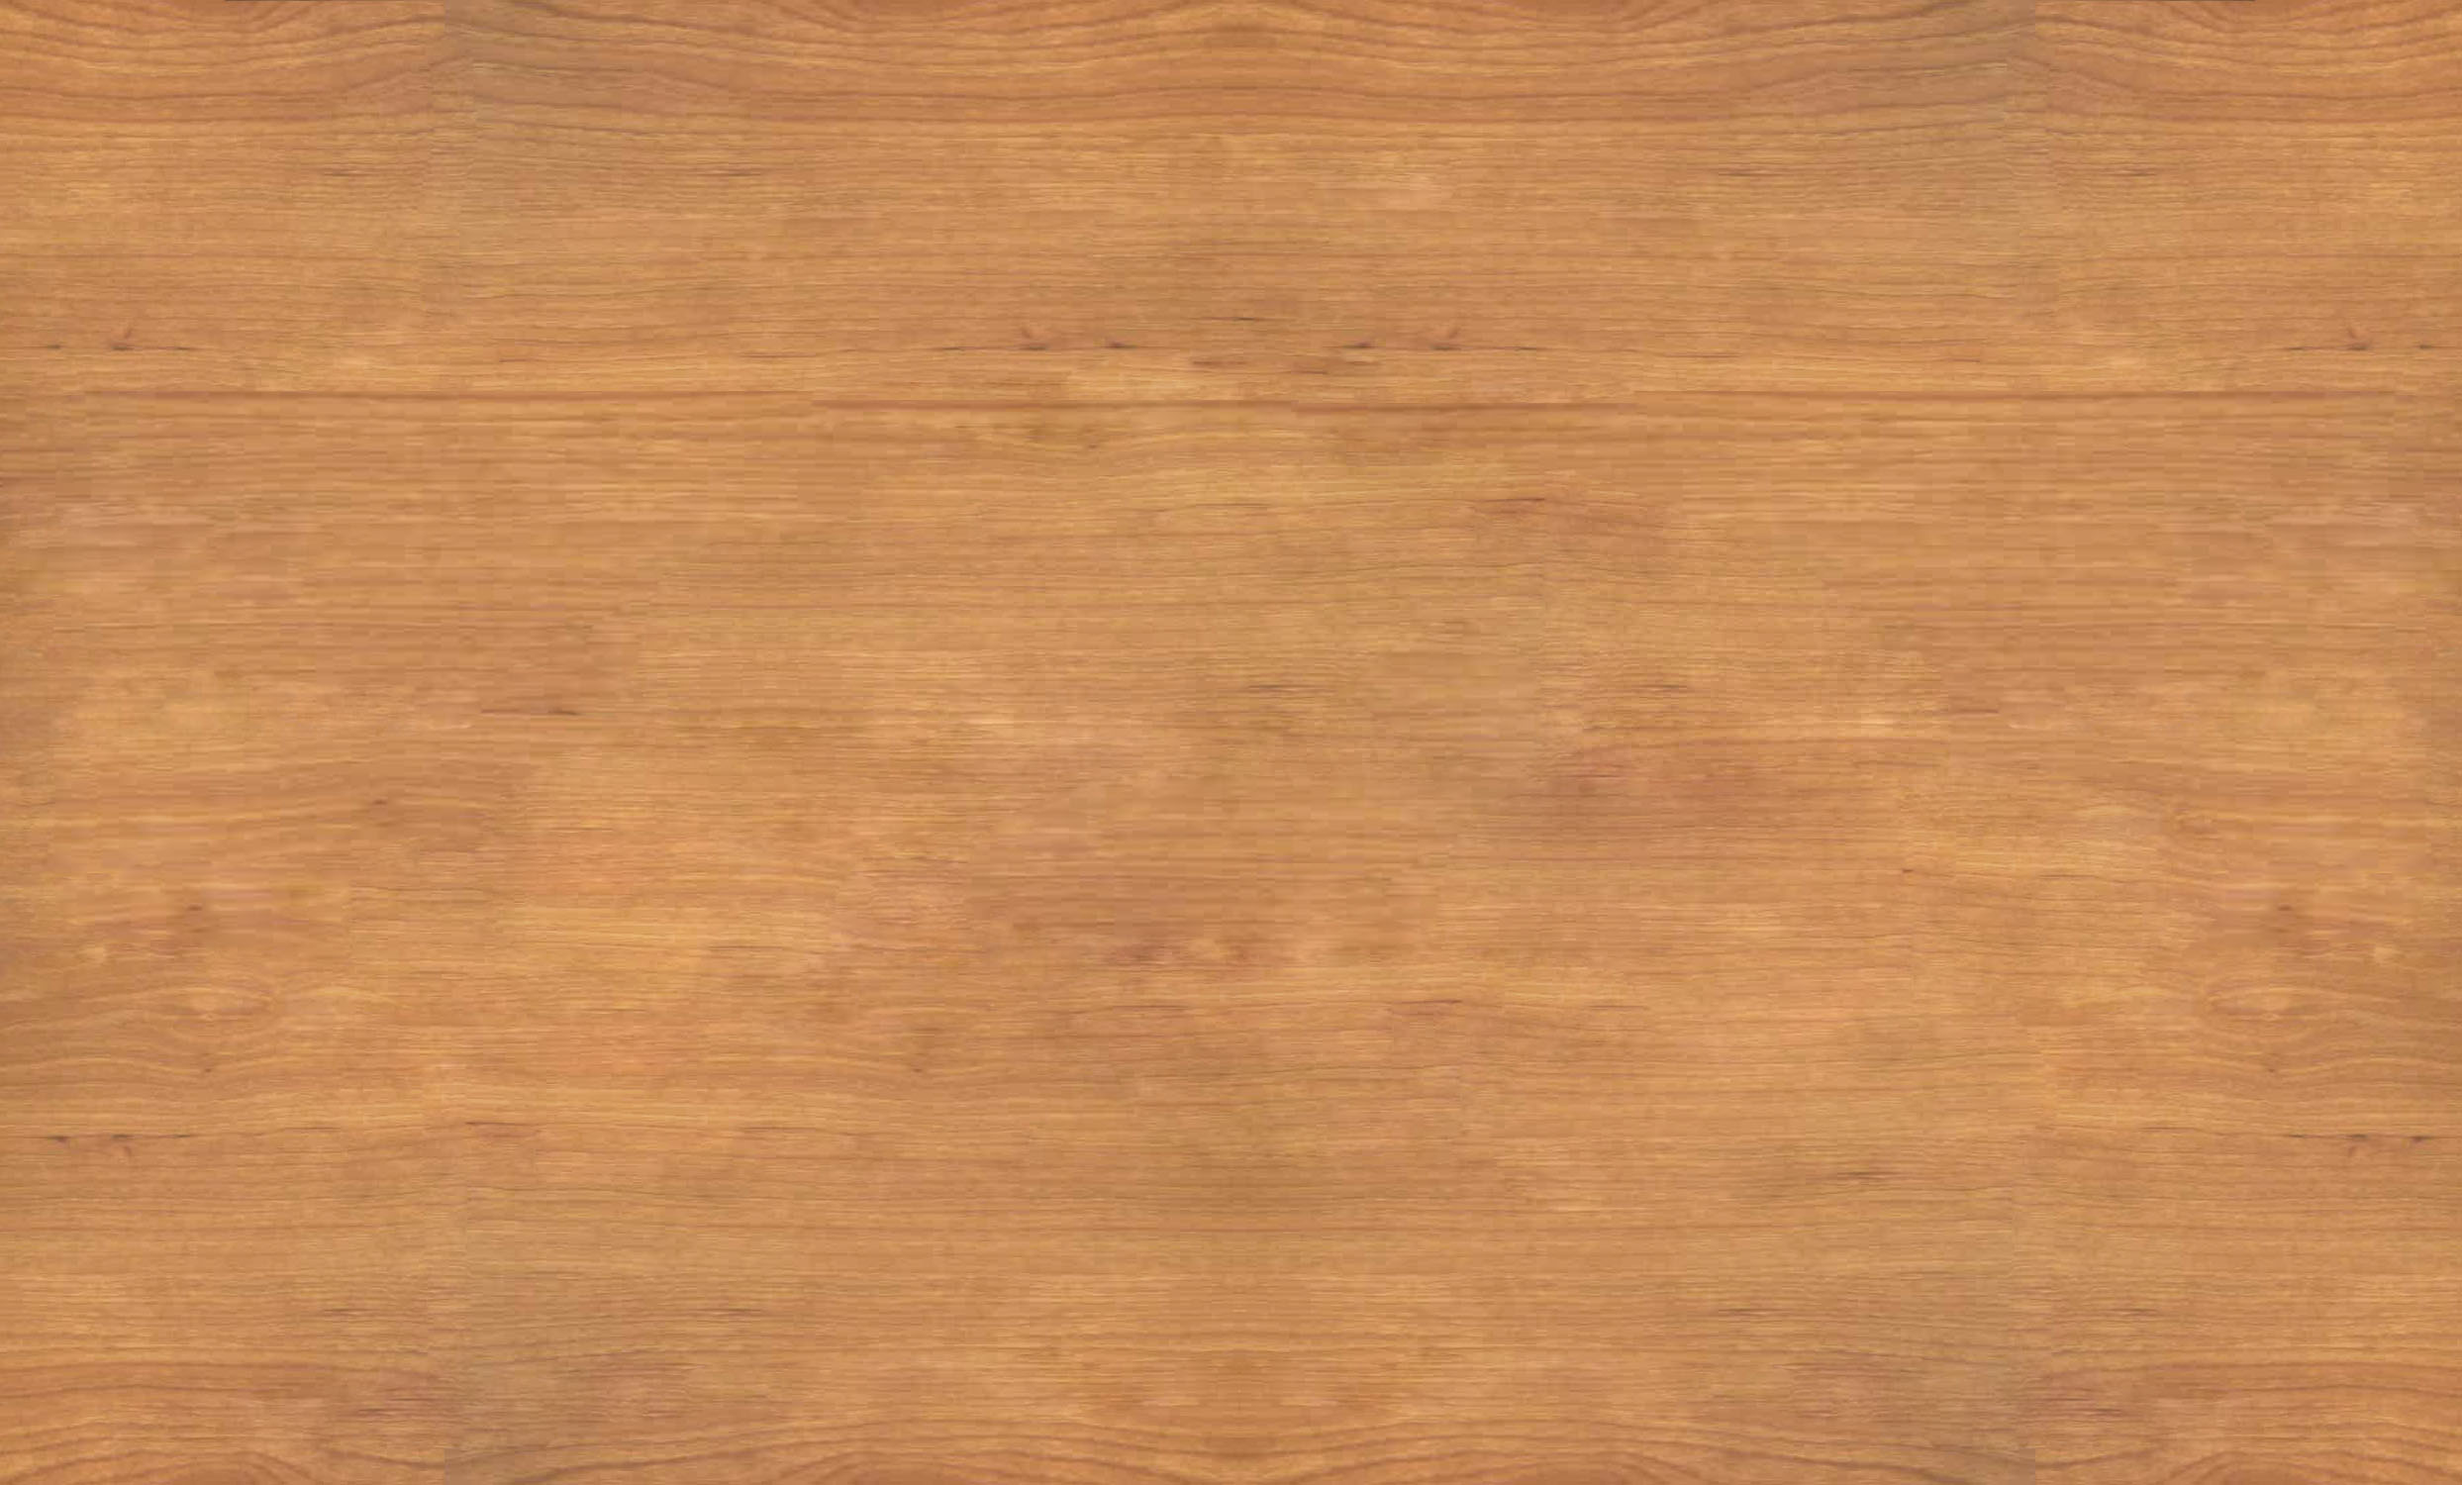
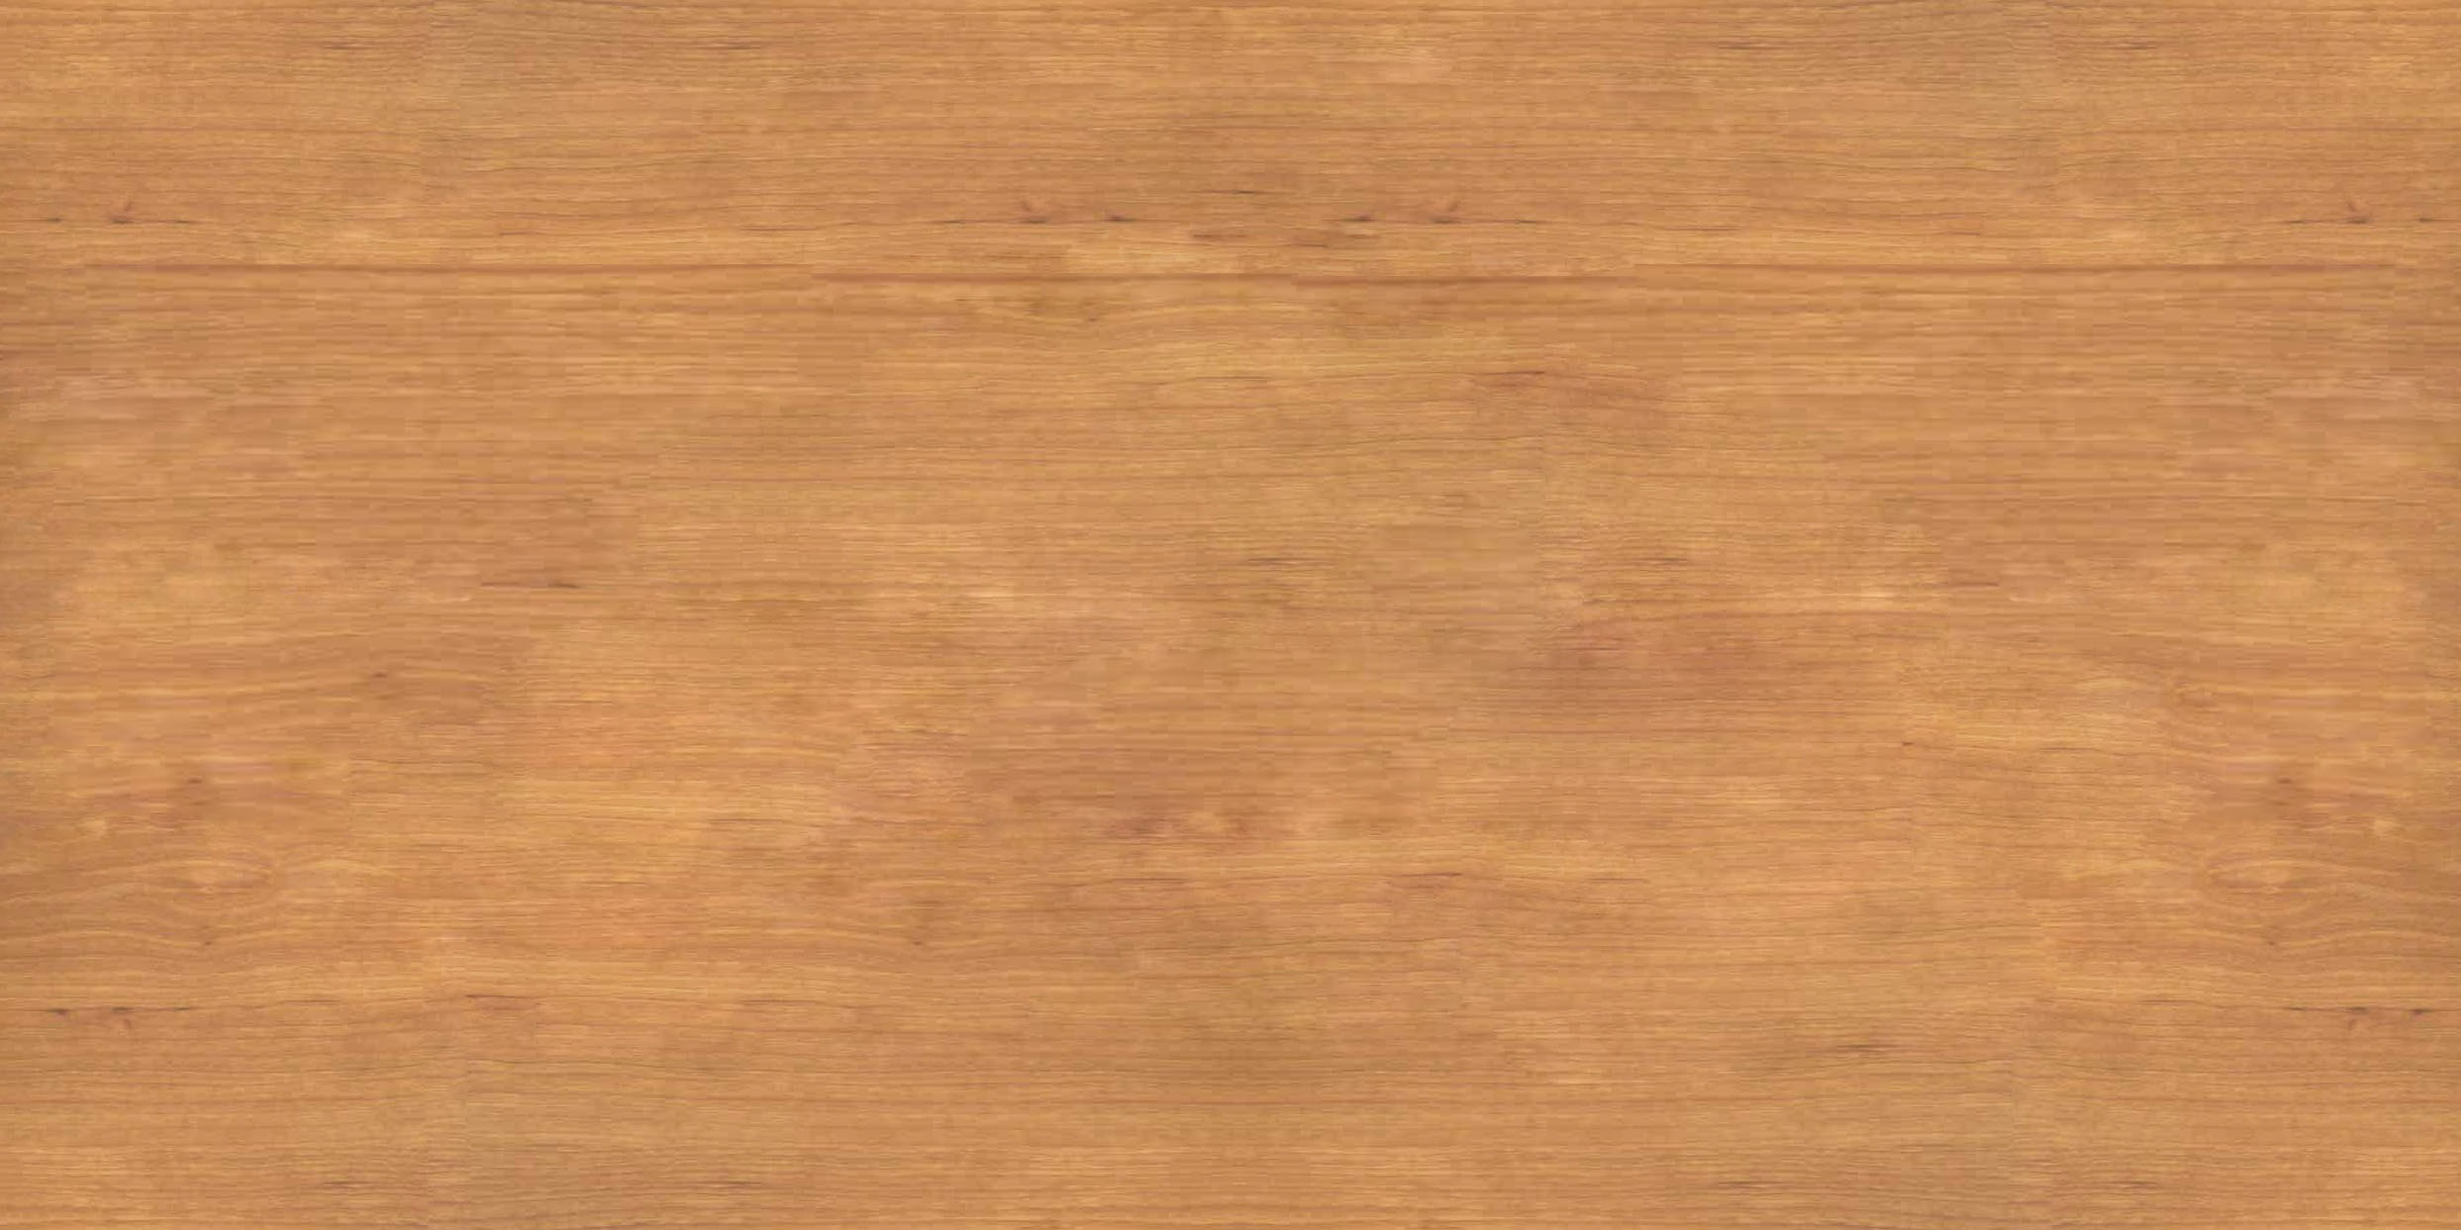
Fixes

diff --git a/src/classroom.js b/src/classroom.js
@@ -2,7 +2,7 @@
 // Track initialisation state
 let initMain = false;
 let initCounter = 0;
-const INIT_AMOUNT = 2;
+const INIT_AMOUNT = 5;
 
 // Vertex/fragment shader programs
 let VSHADER_SOURCE;
@@ -454,12 +454,12 @@ function initVertexBuffers(gl) {
     ]);
 
     let textures = new Float32Array([
-        0.0, 0.0,   0.0, 0.0,   0.0, 0.0,   0.0, 0.0,
-        0.0, 0.0,   0.0, 0.0,   0.0, 0.0,   0.0, 0.0,
-        0.0, 0.0,   0.0, 0.0,   0.0, 0.0,   0.0, 0.0,
-        0.0, 0.0,   0.0, 0.0,   0.0, 0.0,   0.0, 0.0,
-        0.0, 0.0,   0.0, 0.0,   0.0, 0.0,   0.0, 0.0,
         0.0, 0.0,   1.0, 0.0,   1.0, 1.0,   0.0, 1.0,
+        0.0, 0.0,   1.0, 0.0,   1.0, 1.0,   0.0, 1.0,
+        0.0, 0.0,   1.0, 0.0,   1.0, 1.0,   0.0, 1.0,
+        0.0, 0.0,   1.0, 0.0,   1.0, 1.0,   0.0, 1.0,
+        0.0, 0.0,   1.0, 0.0,   1.0, 1.0,   0.0, 1.0,
+        0.0, 0.0,   1.0, 0.0,   1.0, 1.0,   0.0, 1.0
     ]);
 
     // Indices of the vertices
@@ -651,7 +651,7 @@ function drawWhiteboard(drawInfo, x, y, z, width, height) {
     // Surprisingly uses the colour white
     // We make it a bit lighter using u_DiffuseMultiplier
     modelMatrix = topMatrix();
-    enableTextures(1);
+    enableTextures(0);
     if (daytime) {
         drawInfo.gl.uniform1f(drawInfo.u_DiffuseMult, 1.4);
     } else {
@@ -904,8 +904,8 @@ function drawRow(drawInfo, x, y, z, chairIDOffset) {
         drawChair(drawInfo, (i * 3) - 4.5, 0, 0, null, chairIDOffset + i);
     }
 
-    drawTable(drawInfo, -3.05, 0, 3);
-    drawTable(drawInfo, 3.05, 0, 3);
+    drawTable(drawInfo, -3.05, 0, 3, null, null, true);
+    drawTable(drawInfo, 3.05, 0, 3, null, null, true);
 
     modelMatrix = popMatrix();
 }
@@ -934,7 +934,7 @@ function drawTable(drawInfo, x, y, z, width, colour, useTexture = false) {
     drawBox(drawInfo);
     modelMatrix = popMatrix();
     if (useTexture) {
-        enableTextures(3);
+        disableTextures();
     }
 
     // Set the leg colour to dark grey
@@ -1154,7 +1154,7 @@ function initTextures(gl) {
     loadTexture("whiteboard.png", gl.TEXTURE0, drawInfo.u_Sampler);
     loadTexture("carpet.jpg", gl.TEXTURE1, drawInfo.u_Sampler);
     loadTexture("hallway.jpg", gl.TEXTURE2, drawInfo.u_Sampler);
-    loadTexture("wood.jpg", gl.TEXTURE2, drawInfo.u_Sampler);
+    loadTexture("wood.jpg", gl.TEXTURE3, drawInfo.u_Sampler);
 
     return true;
 }
